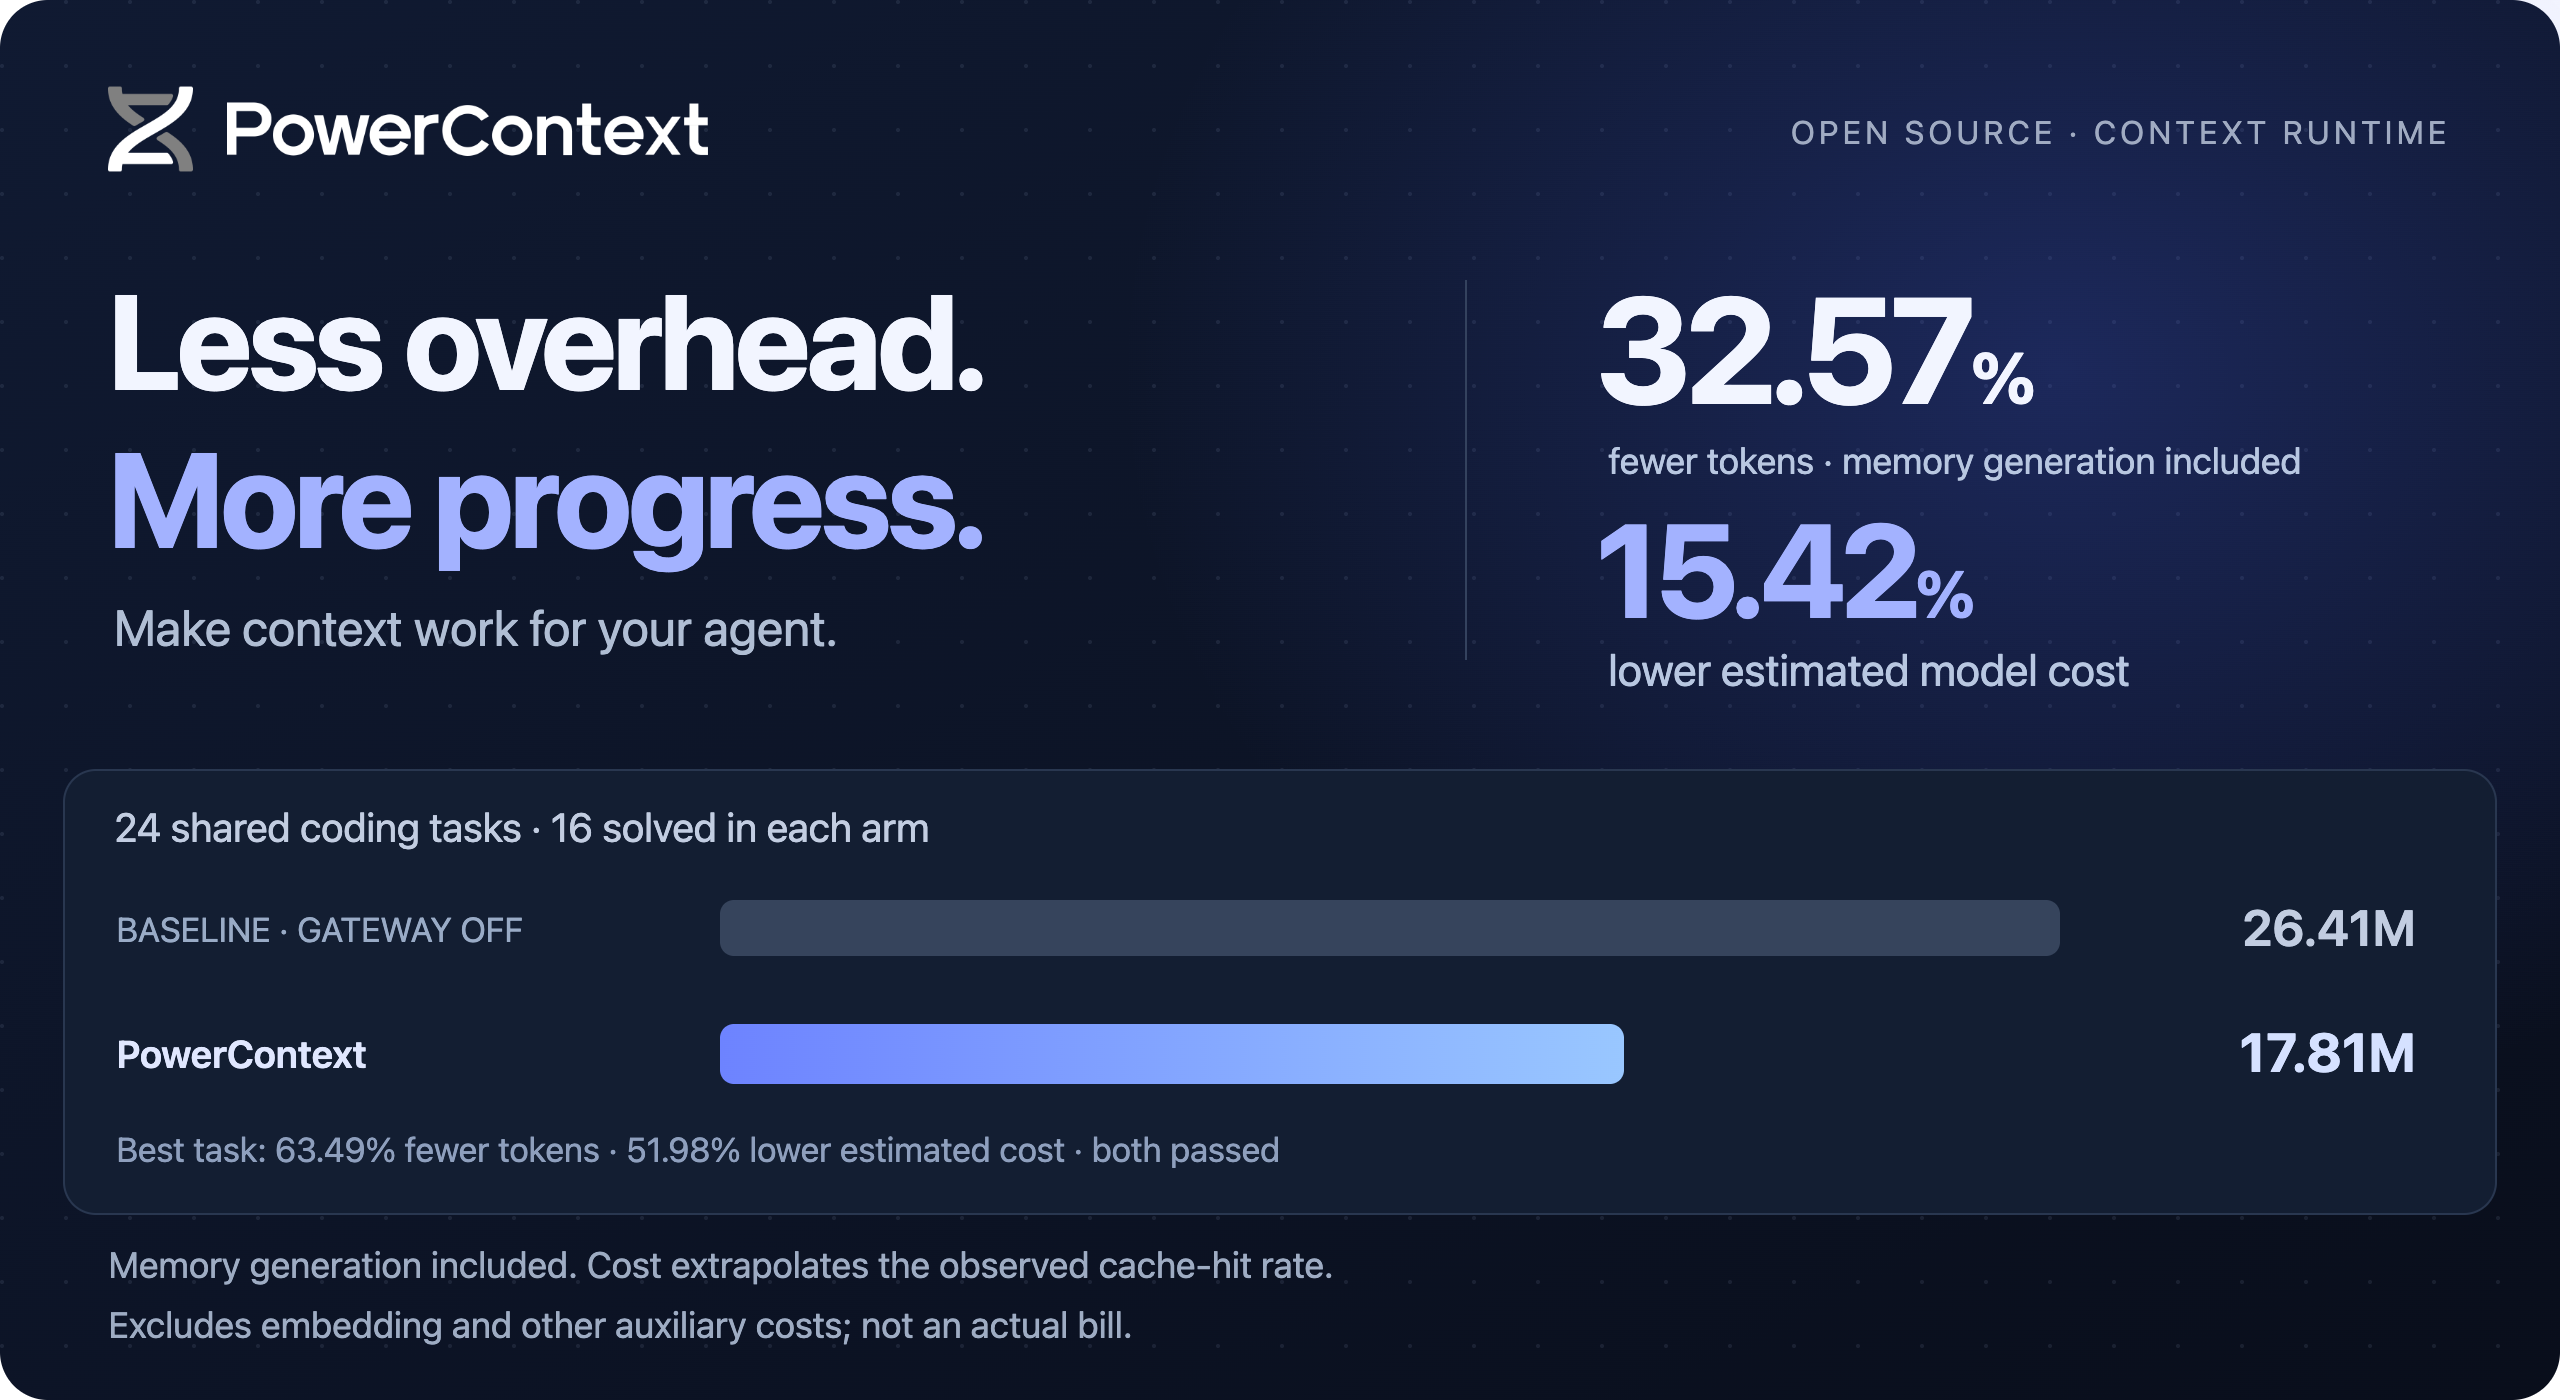
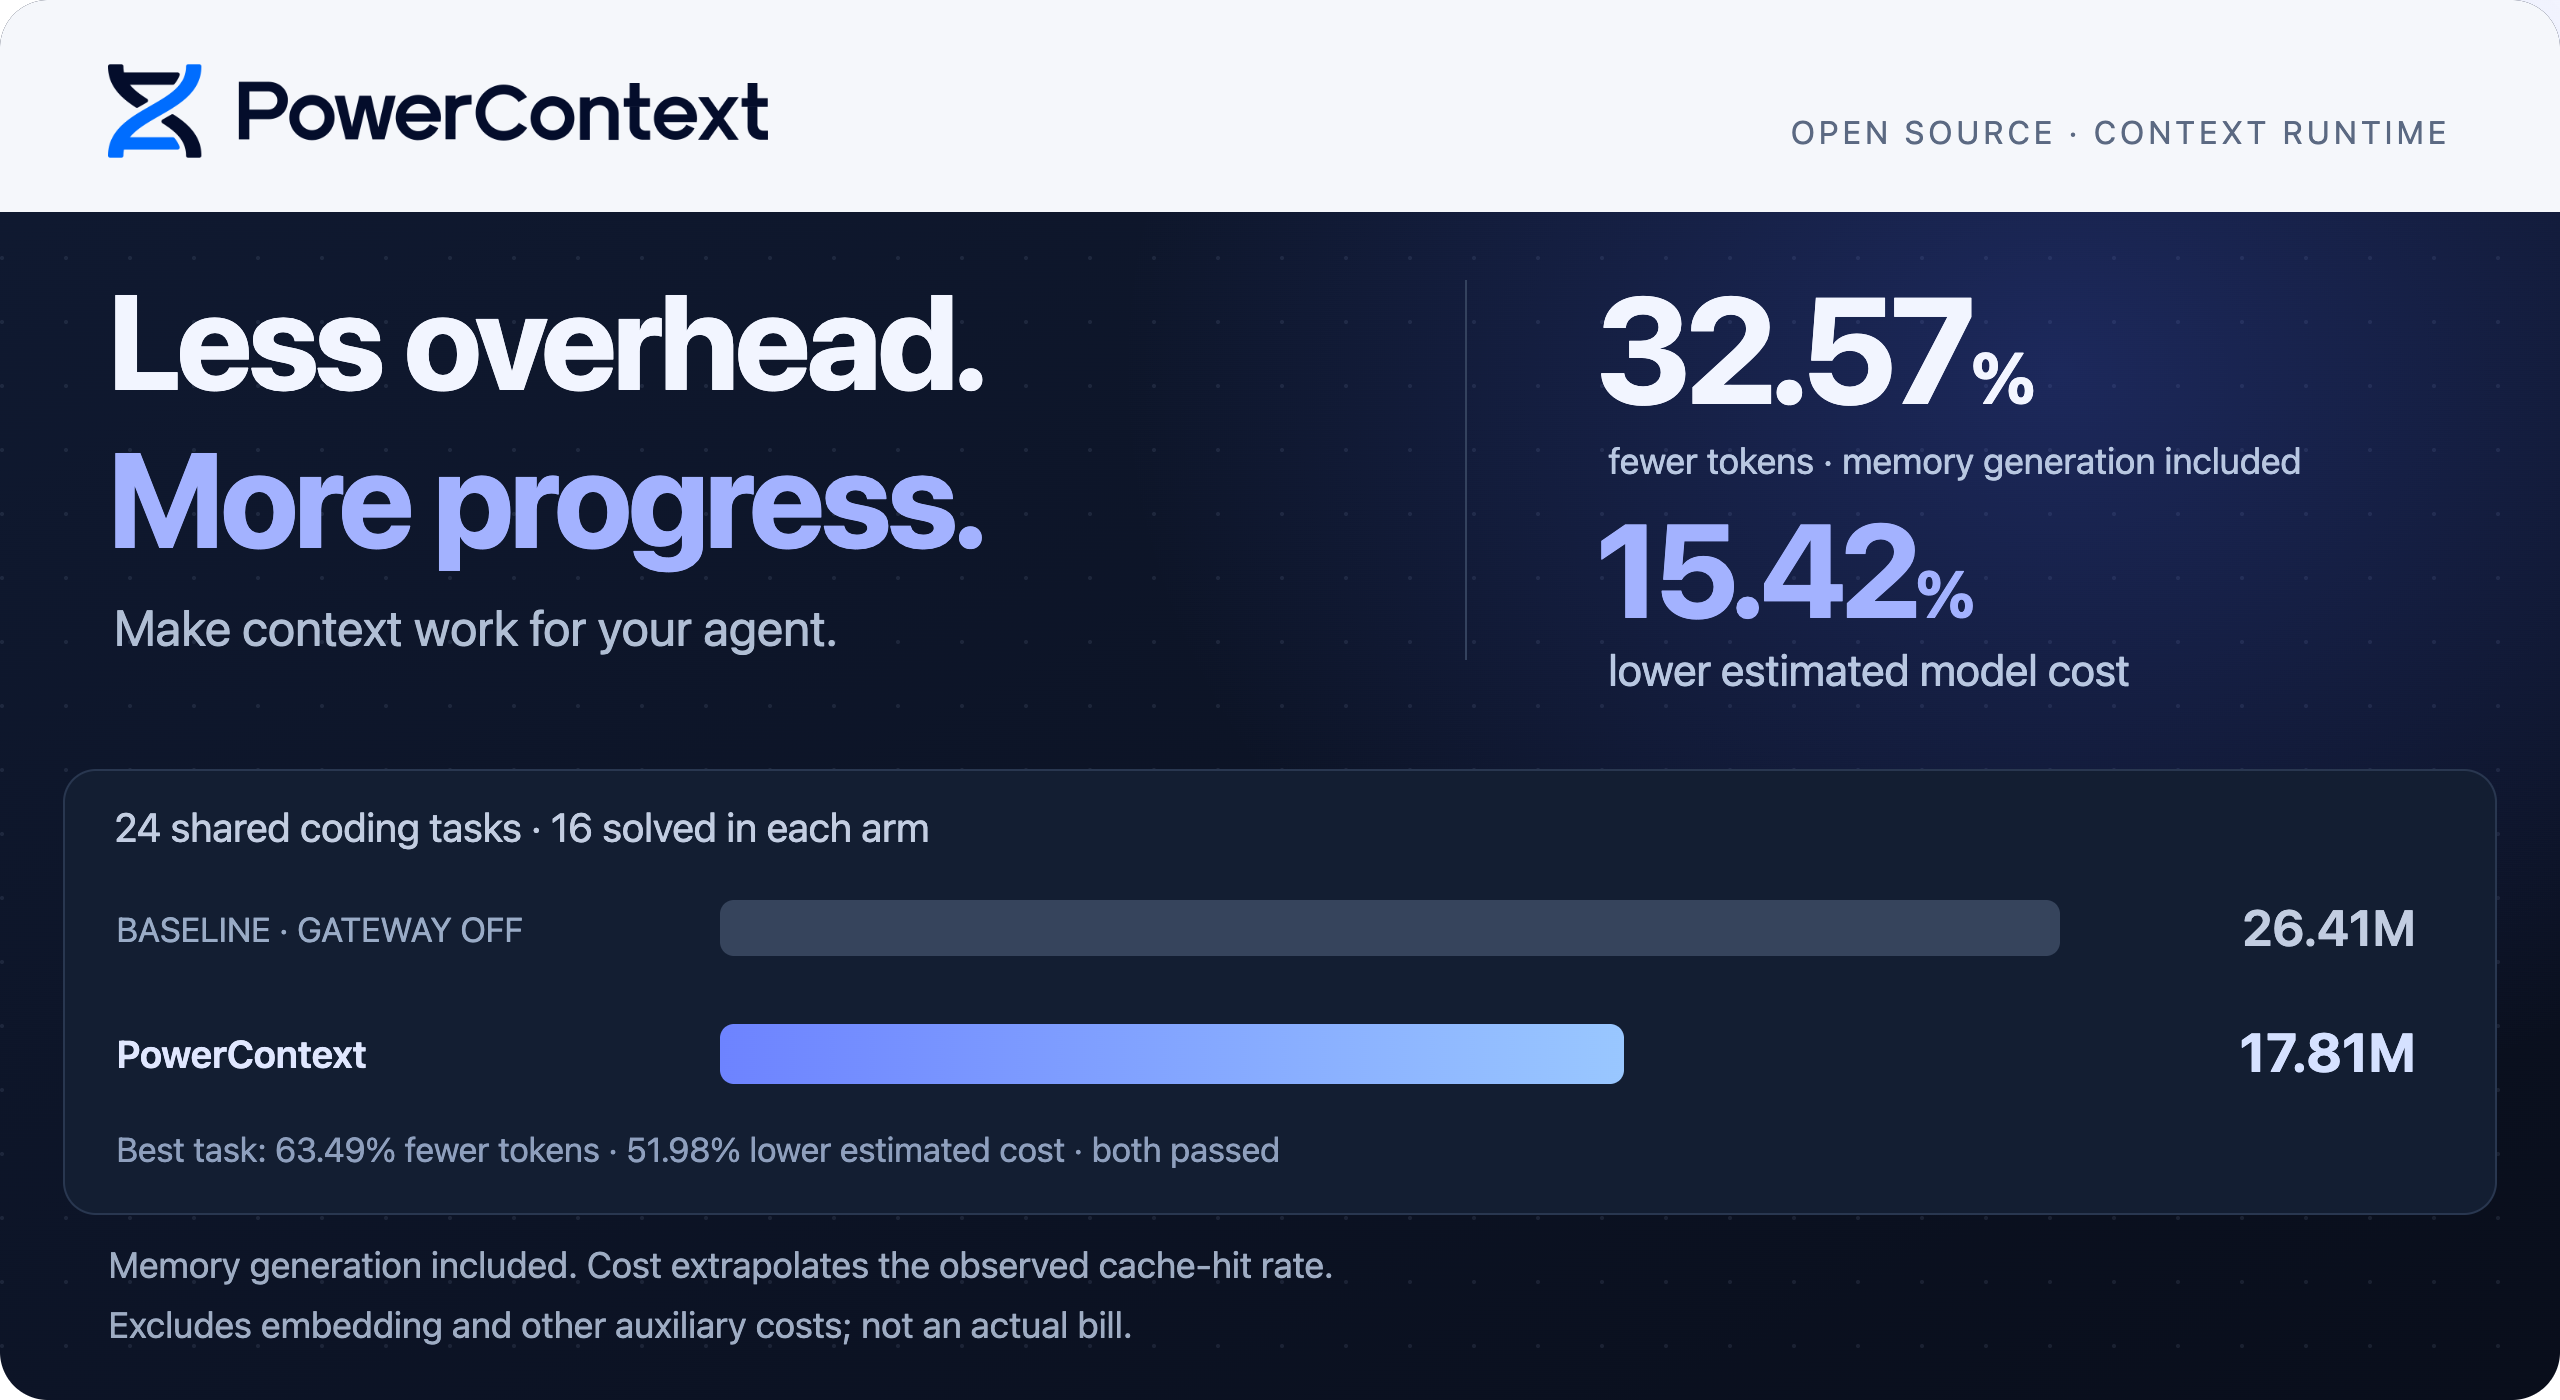
docs: align branding and fill README results and integration layouts

Changed region(s): [[0.0, 0.0, 1.0, 0.1536]]

diff --git a/README.md b/README.md
@@ -31,16 +31,7 @@ Configure the capabilities you need. Context is organized into **Scopes**, acces
 
 ## Proof it works
 
-<table>
-<tr>
-<td width="50%" align="center"><h3>32.57% ↓</h3><b>Fewer tokens across 24 tasks</b><br/><sub>Memory generation included</sub></td>
-<td width="50%" align="center"><h3>15.42% ↓</h3><b>Lower estimated cost across 24 tasks</b><br/><sub>Memory generation included</sub></td>
-</tr>
-<tr>
-<td width="50%" align="center"><h3>63.49% ↓</h3><b>Largest single-task token reduction</b><br/><sub>Case 456 · both runs passed</sub></td>
-<td width="50%" align="center"><h3>51.98% ↓</h3><b>Largest single-task estimated cost reduction</b><br/><sub>Case 456 · both runs passed</sub></td>
-</tr>
-</table>
+<img src="docs/assets/readme-results-en.png" width="100%" alt="24 tasks: 32.57% fewer tokens, 15.42% lower estimated cost. Best task: 63.49% fewer tokens, 51.98% lower estimated cost. Memory generation included." />
 
 Both groups solved **16/24 tasks**. Both single-task peaks come from case 456: including memory generation, tokens fell from **2,301,174 to 840,186**, and estimated cost from **33.53 to 16.10 points**. These peaks are not typical or guaranteed savings.
 
@@ -92,7 +83,14 @@ Start a new session and trust the hooks when prompted. Save a project decision, 
 
 ## Fits your workflow
 
-**Agents** — [Codex](https://powercontext.oceanbase.io/en/docs/integrations/codex/) · [Claude Code](https://powercontext.oceanbase.io/en/docs/integrations/claude-code/) · [OpenCode, OpenClaw, Pi and capability matrix](https://powercontext.oceanbase.io/en/docs/integrations/capabilities/)
+<p align="center">
+  <a href="https://powercontext.oceanbase.io/en/docs/integrations/codex/"><img src="docs/assets/integration-codex.png" width="23%" alt="Codex" /></a>
+  <a href="https://powercontext.oceanbase.io/en/docs/integrations/claude-code/"><img src="docs/assets/integration-claude-code.png" width="23%" alt="Claude Code" /></a>
+  <a href="https://powercontext.oceanbase.io/en/docs/integrations/opencode/"><img src="docs/assets/integration-opencode.png" width="23%" alt="OpenCode" /></a>
+  <a href="https://powercontext.oceanbase.io/en/docs/integrations/openclaw/"><img src="docs/assets/integration-openclaw.png" width="23%" alt="OpenClaw" /></a>
+</p>
+
+[More integrations and capability comparison →](https://powercontext.oceanbase.io/en/docs/integrations/capabilities/)
 
 **Apps & teams** — [Python / HTTP / MCP](https://powercontext.oceanbase.io/en/docs/develop/interfaces/) · [Memory & Handoff](https://powercontext.oceanbase.io/en/docs/workflows/memory-and-handoff/) · [Deployment & access](https://powercontext.oceanbase.io/en/docs/workflows/scopes-and-access/)
 

diff --git a/README_CN.md b/README_CN.md
@@ -31,16 +31,7 @@
 
 ## 效果证据
 
-<table>
-<tr>
-<td width="50%" align="center"><h3>32.57% ↓</h3><b>整批 Token 总量减少</b><br/><sub>24 题 · 已计入记忆生成</sub></td>
-<td width="50%" align="center"><h3>15.42% ↓</h3><b>整批估算模型成本减少</b><br/><sub>同 24 题 · 已计入记忆生成</sub></td>
-</tr>
-<tr>
-<td width="50%" align="center"><h3>63.49% ↓</h3><b>单题最高 Token 降幅</b><br/><sub>第 456 题 · 两组均通过</sub></td>
-<td width="50%" align="center"><h3>51.98% ↓</h3><b>单题最高估算成本降幅</b><br/><sub>第 456 题 · 两组均通过</sub></td>
-</tr>
-</table>
+<img src="docs/assets/readme-results-zh.png" width="100%" alt="同24题：Token减少32.57%，估算成本减少15.42%；单题最高分别减少63.49%和51.98%。已计入记忆生成。" />
 
 两组均通过 **16/24 题**。单题最高降幅来自第 456 题：计入记忆生成后，Token 从 **2,301,174 降至 840,186**，估算成本从 **33.53 降至 16.10 点**。单题最高值不代表每道题都能达到。
 
@@ -93,7 +84,14 @@ powercontext doctor codex
 
 ## 接入你的工作流
 
-**Agent** — [Codex](https://powercontext.oceanbase.io/zh/docs/integrations/codex/) · [Claude Code](https://powercontext.oceanbase.io/zh/docs/integrations/claude-code/) · [OpenCode、OpenClaw、Pi及能力矩阵](https://powercontext.oceanbase.io/zh/docs/integrations/capabilities/)
+<p align="center">
+  <a href="https://powercontext.oceanbase.io/zh/docs/integrations/codex/"><img src="docs/assets/integration-codex.png" width="23%" alt="Codex" /></a>
+  <a href="https://powercontext.oceanbase.io/zh/docs/integrations/claude-code/"><img src="docs/assets/integration-claude-code.png" width="23%" alt="Claude Code" /></a>
+  <a href="https://powercontext.oceanbase.io/zh/docs/integrations/opencode/"><img src="docs/assets/integration-opencode.png" width="23%" alt="OpenCode" /></a>
+  <a href="https://powercontext.oceanbase.io/zh/docs/integrations/openclaw/"><img src="docs/assets/integration-openclaw.png" width="23%" alt="OpenClaw" /></a>
+</p>
+
+[其他集成与能力对照 →](https://powercontext.oceanbase.io/zh/docs/integrations/capabilities/)
 
 **应用与团队** — [Python / HTTP / MCP](https://powercontext.oceanbase.io/zh/docs/develop/interfaces/) · [记忆与任务交接](https://powercontext.oceanbase.io/zh/docs/workflows/memory-and-handoff/) · [部署与访问控制](https://powercontext.oceanbase.io/zh/docs/workflows/scopes-and-access/)
 
